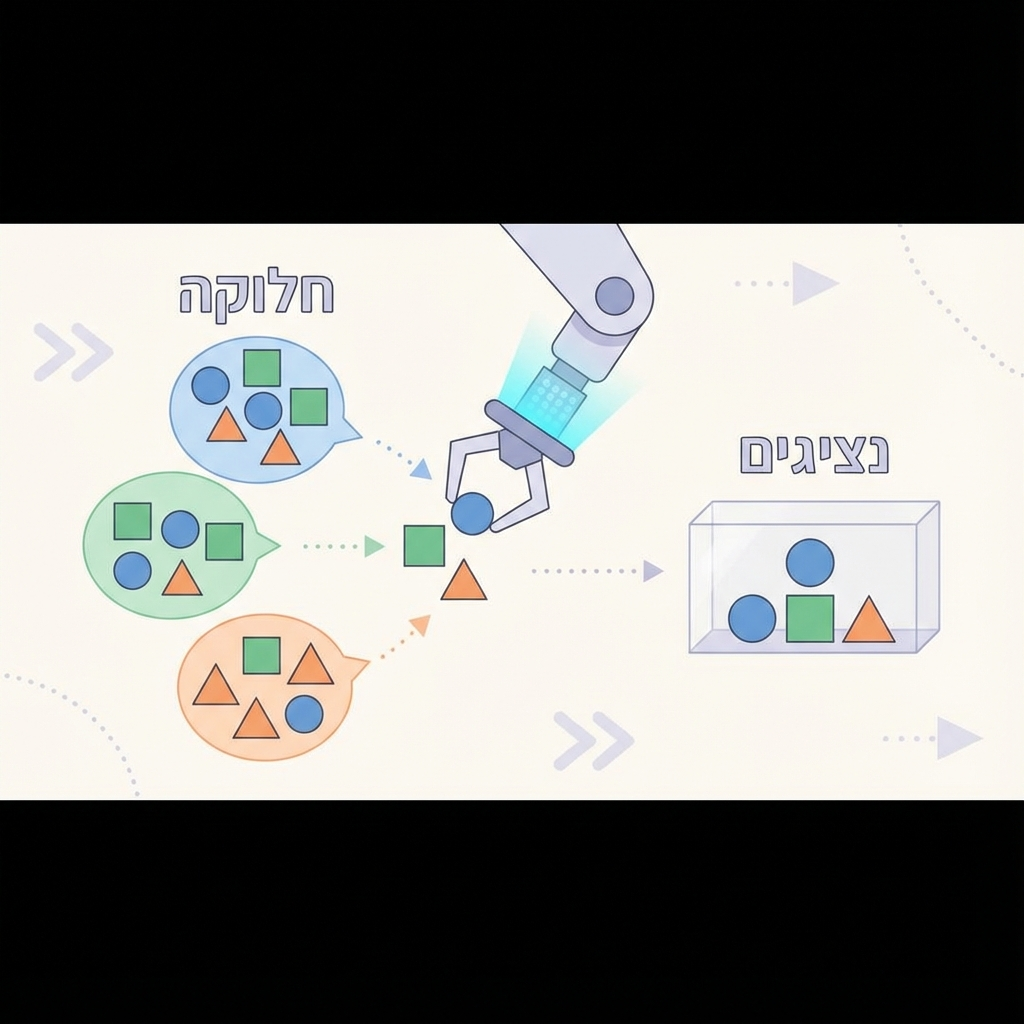
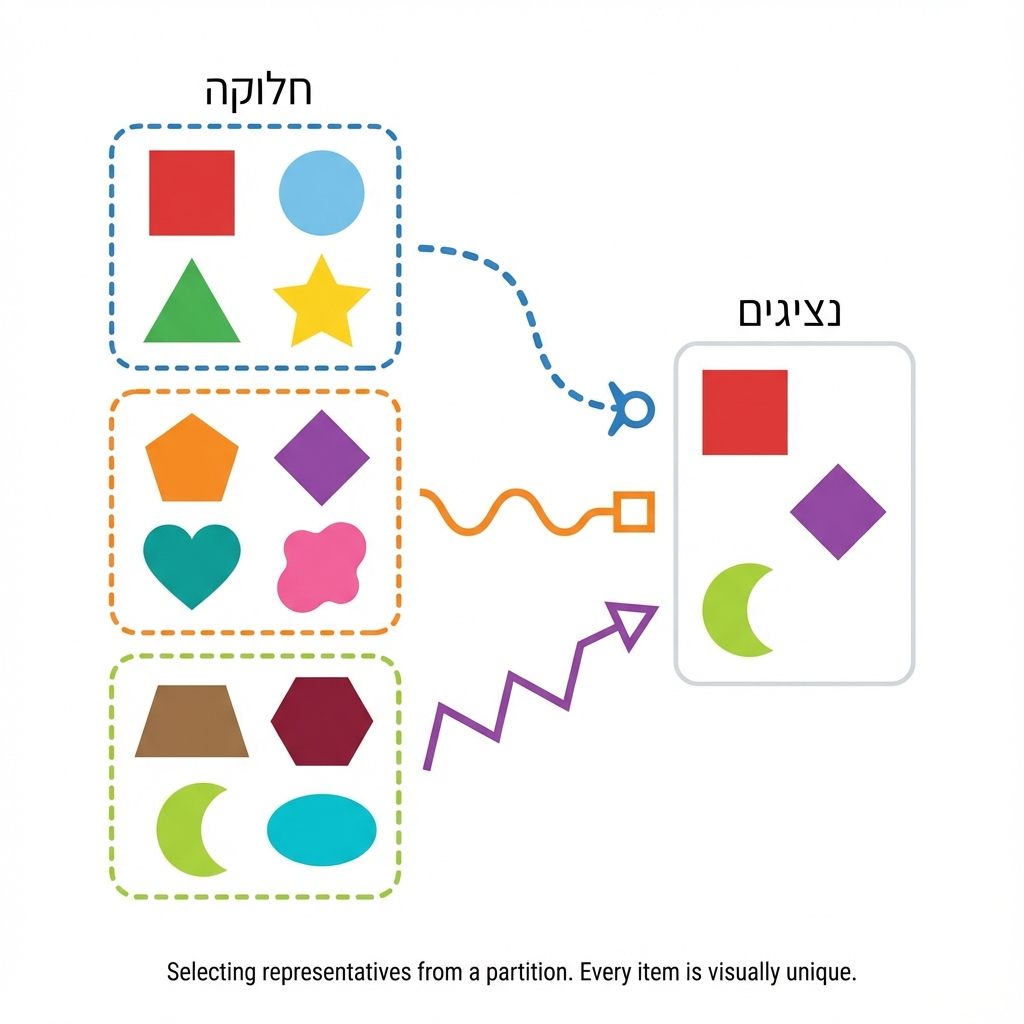
docs: Add partition selector image and update equivalence module content.

diff --git a/04-equiv.md b/04-equiv.md
@@ -939,7 +939,7 @@ section: מערכות נציגים
   - אם $P$ היא מרחב המנה של $A$ ביחס $R$, אז מערכת נציגים של $P$ היא מערכת נציגים של $R$ ולהיפך.
 
 
-<img src="/images/partition_selector_he.png" class="absolute -bottom-10 left-90 w-120 h-80"  style="clip-path: inset(70px 0 70px 0);" />
+<img src="/images/partition_selector_he.png" class="absolute bottom-20 left-5 h-70" style="clip-path: inset(0px 0 20px 0);" />
 
 ---
 
